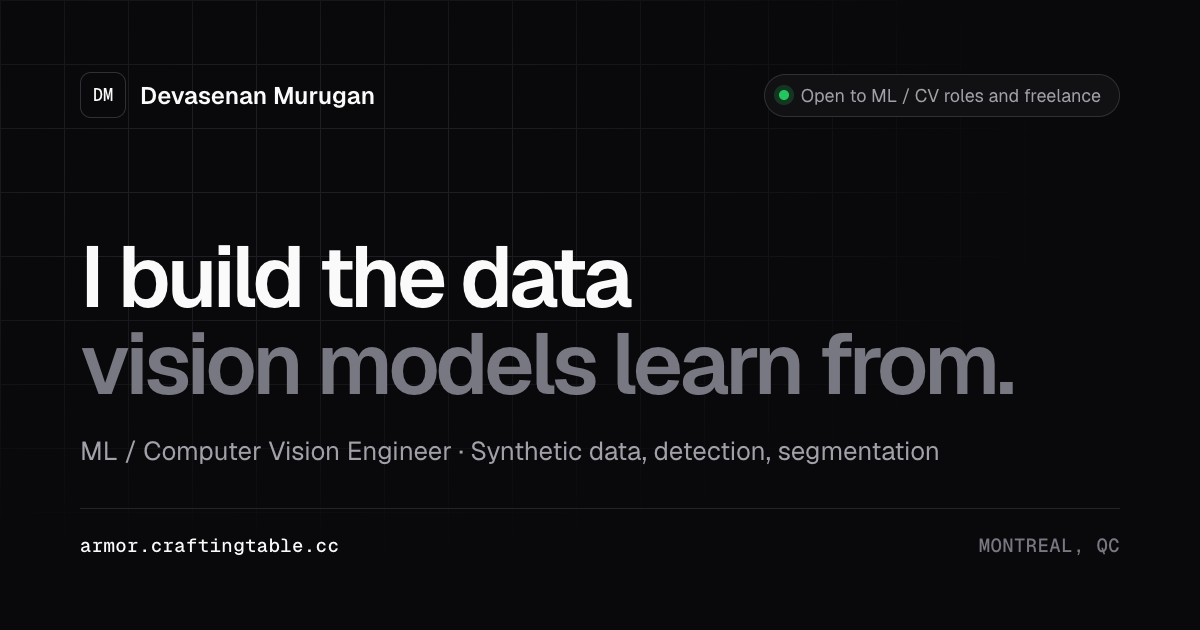
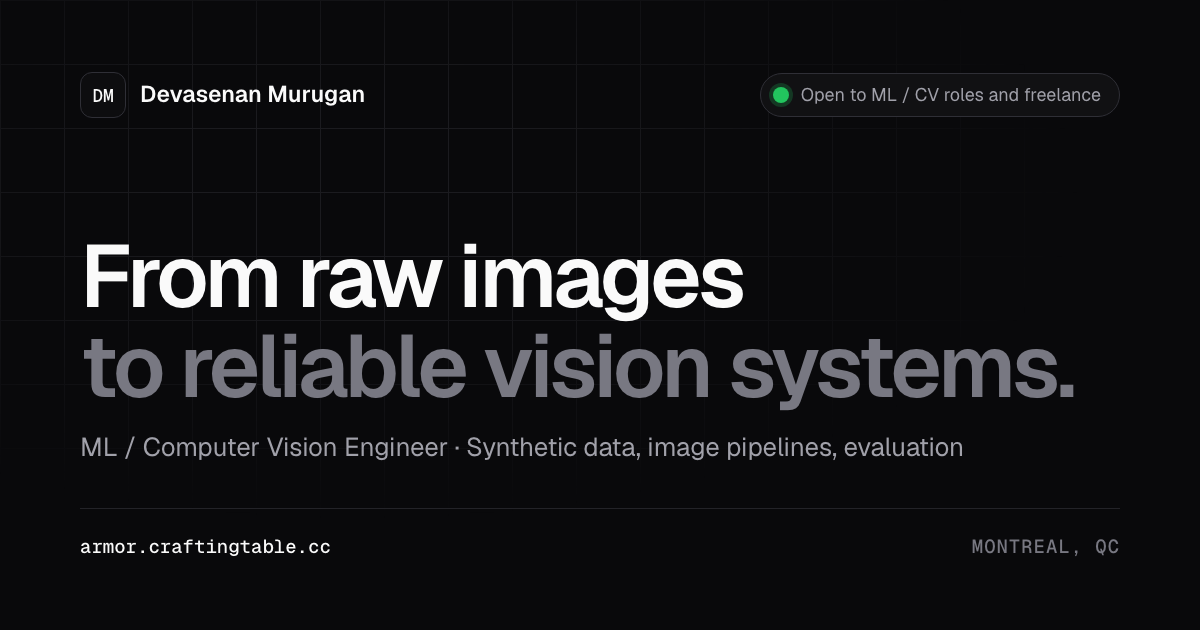
Reposition hero, correct title and attribution, add OG image generator
- Hero: "From raw images to reliable vision systems", with a scoped lede
- Use the official title "Data Engineer Intern" on both editions
- Word the FAR/FRR figures as a contribution to the overall pipeline
- Mark the Domain Gap Detector as in progress and split built vs planned
- Label AWS as coursework; align award and home-lab wording
- Update meta, Open Graph text and image alt text
- Regenerate the link-preview image and add tools/og to rebuild it

diff --git a/site/minecraft/index.html b/site/minecraft/index.html
@@ -4,17 +4,17 @@
 <meta charset="utf-8">
 <meta name="viewport" content="width=device-width,initial-scale=1">
 <title>Devasenan Murugan · ML / Computer Vision Engineer</title>
-<meta name="description" content="Devasenan Murugan, ML / Computer Vision engineer in Montreal. Synthetic data pipelines, detection and segmentation.">
+<meta name="description" content="Devasenan Murugan, ML / Computer Vision engineer in Montreal. Synthetic data, image pipelines and evaluation for vision models.">
 <link rel="canonical" href="https://armor.craftingtable.cc/minecraft/">
 <meta property="og:type" content="website">
 <meta property="og:site_name" content="Devasenan Murugan">
 <meta property="og:title" content="Devasenan Murugan · ML / Computer Vision Engineer">
-<meta property="og:description" content="Synthetic data pipelines, detection and segmentation, and measuring the gap between sim and real. Based in Montreal.">
+<meta property="og:description" content="Synthetic data, image pipelines, and measuring the gap between synthetic and real images. Based in Montreal.">
 <meta property="og:url" content="https://armor.craftingtable.cc/minecraft/">
 <meta property="og:image" content="https://armor.craftingtable.cc/assets/og.png">
 <meta property="og:image:width" content="1200">
 <meta property="og:image:height" content="630">
-<meta property="og:image:alt" content="Devasenan Murugan, ML / Computer Vision Engineer. I build the data vision models learn from.">
+<meta property="og:image:alt" content="Devasenan Murugan, ML / Computer Vision Engineer.">
 <meta name="twitter:card" content="summary_large_image">
 <link rel="preconnect" href="https://fonts.googleapis.com"><link rel="preconnect" href="https://fonts.gstatic.com" crossorigin>
 <link href="https://fonts.googleapis.com/css2?family=Noto+Sans:wght@400;500;600;700;800&family=Silkscreen&display=swap" rel="stylesheet">
@@ -341,7 +341,7 @@ footer .legal{color:#9a9a9a;font-size:12px;max-width:520px}
     <div>
       <div class="pill"><i></i>Open to ML / CV roles and freelance · Montreal</div>
       <h1>Devasenan Murugan<small>ML / Computer Vision Engineer</small></h1>
-      <p class="lede">I build synthetic data pipelines and vision models, and I measure the gap between sim and real. Master's in Applied CS at Concordia.</p>
+      <p class="lede">I build synthetic data and image pipelines for vision models, and I'm building a tool to measure the gap between synthetic and real images. Master of Applied Computer Science, Concordia (2026).</p>
       <div class="ctas">
         <a class="btn" href="#contact"><canvas data-item="gem:cyan" width="16" height="16"></canvas>Hire me</a>
         <a class="btn ghost" href="#projects">See projects</a>
@@ -373,12 +373,12 @@ footer .legal{color:#9a9a9a;font-size:12px;max-width:520px}
       <div class="craft">
         <div class="g3" data-grid="orb:orange|BlenderProc|Domain-randomized renders;gem:cyan|YOLOv8|Ultralytics detector;orb:orange|BlenderProc|;dust:aqua|FID / KID|No-training gap metric;gem:purple|DINOv2|Feature backbone;dust:aqua|FID / KID|;ingot:iron|YCB-V objects|Benchmark objects;dust:red|MMD / KS-test|Drift monitor;ingot:iron|YCB-V objects|"></div>
         <div class="arrow"></div>
-        <div class="out"><div class="slot" data-item="compass" data-tip="Domain Gap Detector|aqua|Measures the synthetic-to-real gap|before a full train/eval cycle"></div></div>
+        <div class="out"><div class="slot" data-item="compass" data-tip="Domain Gap Detector|aqua|Goal: measure the synthetic-to-real gap|before a full train/eval cycle (in progress)"></div></div>
       </div>
       <div>
-        <div class="meta">Aug 2026 – ongoing · personal project</div>
+        <div class="meta">Aug 2026 – ongoing · personal project · in progress</div>
         <h3>Synthetic-to-Real Domain Gap Detector</h3>
-        <p>Estimates how well synthetic training data will transfer to real-world detection before you commit to a full train/eval cycle. A config-driven render → train → eval pipeline over domain-randomized YCB-V variants, a no-training gap metric (FID/KID on DINOv2 features), and a drift monitor that flags shifts in incoming batches.</p>
+        <p>Goal: estimate how well synthetic training data will transfer to real-world detection before a full train/eval cycle. Built: a config-driven render → train → eval pipeline over domain-randomized YCB-V variants. In progress: a no-training gap metric (FID/KID on DINOv2 features) and a drift monitor for incoming batches. Results not yet published.</p>
         <div class="chips"><span>BlenderProc</span><span>YOLOv8</span><span>DINOv2</span><span>FID / KID</span><span>MMD / KS-test</span></div>
       </div>
     </article>
@@ -387,13 +387,13 @@ footer .legal{color:#9a9a9a;font-size:12px;max-width:520px}
       <div class="craft">
         <div class="g3" data-grid="orb:orange|Blender Python API|~100K rendered samples;orb:orange|Blender Python API|;orb:orange|Blender Python API|;paper|Occlusion compositing|Finger and object cutouts;gem:cyan|Card / text / photo detectors|In-house models;paper|OCR|;book:purple|Annotation QA|Guidelines, taxonomy, calibration;ingot:gold|Real re-captures|Vendors photographed printed cards;book:purple|Annotation QA|"></div>
         <div class="arrow"></div>
-        <div class="out"><div class="slot" data-item="gem:cyan" data-tip="ID-card quality-check data|aqua|Hyperverge|g:~50% FAR, ~12% FRR reduction"></div></div>
+        <div class="out"><div class="slot" data-item="gem:cyan" data-tip="ID-card quality-check data|aqua|Hyperverge|g:Contributed to ~50% FAR, ~12% FRR relative reductions"></div></div>
       </div>
       <div>
-        <div class="meta">Hyperverge · Data Engineer Intern (DL)</div>
+        <div class="meta">Hyperverge · Data Engineer Intern</div>
         <h3>ID-card quality-check data</h3>
         <p>~100K Blender-rendered samples covering blur, glare and partially visible cards, plus an occlusion pipeline for cases Blender couldn't simulate. Led annotation for the QC model and had vendors re-capture printed cards to close the gap.</p>
-        <div class="stat">~50% FAR · ~12% FRR relative reduction</div>
+        <div class="stat">Contributed to ~50% FAR · ~12% FRR relative reductions</div>
       </div>
     </article>
 
@@ -462,7 +462,7 @@ footer .legal{color:#9a9a9a;font-size:12px;max-width:520px}
     </div>
     <div class="why reveal">
       <p>I run my own home lab: Docker on Linux, Cloudflare tunnels, a local GPU for LLMs, and the services above, including the box that serves this page.</p>
-      <p>It's where I try things before they reach production: serving models, wiring agents to memory, and keeping it all up.</p>
+      <p>It's where I try things out: hosting a local LLM, wiring AI agents to memory, and keeping services running.</p>
       <a class="btn ghost" href="https://github.com/devasenan134">See it on GitHub</a>
     </div>
   </div>
@@ -571,7 +571,7 @@ document.querySelectorAll('div.slot[data-item],div.slot[data-block]').forEach(fi
 
 /* skills: creative tabs with real logos pixelated (Simple Icons, CC0) */
 const LOGO={Python:'python',PyTorch:'pytorch',OpenCV:'opencv',Docker:'docker',Linux:'linux','Git / GitHub':'git','Scikit-Learn':'scikitlearn',Pandas:'pandas',NumPy:'numpy','Blender Python API':'blender','C++':'cplusplus',Java:'openjdk',Bash:'gnubash','YOLO (Ultralytics)':'ultralytics','SAM':'meta','DINOv2':'meta'};
-const BADGE={SQL:'#4f8de8','Grounding DINO':'#b07ee8','OCR pipelines':'#cfcfcf',Segmentation:'#41d06b','Perspective transforms':'#3fb7c9','Photoshop scripting':'#31a8ff',Albumentations:'#f08a3a','Domain randomization':'#e5484d',Matplotlib:'#3b7bbf',Seaborn:'#4c72b0','Label Studio':'#f75a2b',Unsloth:'#41d06b',AWS:'#ff9900','Data-centric AI':'#ffd33d'};
+const BADGE={SQL:'#4f8de8','Grounding DINO':'#b07ee8','OCR pipelines':'#cfcfcf',Segmentation:'#41d06b','Perspective transforms':'#3fb7c9','Photoshop scripting':'#31a8ff',Albumentations:'#f08a3a','Domain randomization':'#e5484d',Matplotlib:'#3b7bbf',Seaborn:'#4c72b0','Label Studio':'#f75a2b',Unsloth:'#41d06b','AWS (coursework)':'#ff9900','Data-centric AI':'#ffd33d'};
 function logo(name){const c=C16(),x=c.getContext('2d');
   if(LOGO[name]){const im=new Image();im.onload=()=>{x.imageSmoothingEnabled=true;x.drawImage(im,1,1,14,14);
     try{const d=x.getImageData(0,0,16,16);for(let i=3;i<d.data.length;i+=4)d.data[i]=d.data[i]>90?255:0;x.putImageData(d,0,0)}catch(e){}};im.src='../assets/icons/'+LOGO[name]+'.svg'}
@@ -583,7 +583,7 @@ const CATS=[
  ['ML & data','potion:orange',['PyTorch','Scikit-Learn','Pandas','NumPy','Matplotlib','Seaborn','Data-centric AI']],
  ['Computer vision','gem:cyan',['OpenCV','YOLO (Ultralytics)','SAM','Grounding DINO','DINOv2','OCR pipelines','Segmentation','Perspective transforms']],
  ['Synthetic data','orb:orange',['Blender Python API','Photoshop scripting','Albumentations','Domain randomization']],
- ['Tools','pick',['Git / GitHub','Docker','Linux','Label Studio','Unsloth','AWS']],
+ ['Tools','pick',['Git / GitHub','Docker','Linux','Label Studio','Unsloth','AWS (coursework)']],
 ];
 const ctabs=document.getElementById('ctabs'),ctiles=document.getElementById('ctiles');
 const ALL=['All','compass',CATS.flatMap(c=>c[2].map(n=>[n,c[0]]))];
@@ -600,14 +600,14 @@ showCat(0);
 /* advancements */
 const ADV=[
  {id:'kct',x:40,y:180,type:'task',item:'book:blue',t:'Getting an Education',cap:'KCT, Coimbatore',sub:'2020 – 2024',d:'B.E. Computer Science, 9.2/10'},
- {id:'best',x:210,y:50,type:'challenge',item:'gem:cyan',t:'Best Outgoing Student',cap:'Best Outgoing Student',sub:'department award',d:'Top of the department, 2020 – 2024'},
+ {id:'best',x:210,y:50,type:'challenge',item:'gem:cyan',t:'Best Outgoing Student',cap:'Best Outgoing Student',sub:'department award',d:'Best Outgoing Student of the Department, 2020 – 2024'},
  {id:'merit',x:210,y:310,type:'goal',item:'ingot:gold',t:'Merit Scholarship',cap:'Merit Scholarship',sub:'2021 – 2023',d:'Mahatma Gandhi Merit Scholarship, two years'},
  {id:'deft',x:380,y:180,type:'task',item:'orb:green',t:'Team Lead',cap:'Deft & Tact',sub:'Apr – Oct 2023',d:'Project trainee. Led a team of 3 on room re-tiling'},
- {id:'hv',x:550,y:180,type:'task',item:'orb:orange',t:'Into the Pipeline',cap:'Hyperverge',sub:'2024',d:'DL intern. Synthetic data for ID-card QC and tamper detection'},
- {id:'far',x:470,y:40,type:'challenge',item:'gem:cyan',t:'Diamonds!',cap:'~50% FAR cut',sub:'ID-card QC',d:'~50% FAR, ~12% FRR relative reduction'},
+ {id:'hv',x:550,y:180,type:'task',item:'orb:orange',t:'Into the Pipeline',cap:'Hyperverge',sub:'2024',d:'Data Engineer Intern. Synthetic data for ID-card QC and tamper detection'},
+ {id:'far',x:470,y:40,type:'challenge',item:'gem:cyan',t:'Diamonds!',cap:'FAR / FRR down',sub:'contributed · ID-card QC',d:'Contributed to ~50% FAR, ~12% FRR relative reductions'},
  {id:'k300',x:630,y:320,type:'goal',item:'gem:green',t:'Stack of Data',cap:'300K samples',sub:'tamper dataset',d:'5 classes with pixel-level masks'},
- {id:'conc',x:720,y:180,type:'task',item:'book:purple',t:'Leveling Up',cap:'Concordia, Montreal',sub:'2025 – 2026',d:'Master of Applied CS, 3.7/4.3'},
- {id:'dgd',x:900,y:320,type:'goal',item:'compass',t:'Mind the Gap',cap:'Domain Gap Detector',sub:'ongoing',d:'Measuring the synthetic-to-real gap'},
+ {id:'conc',x:720,y:180,type:'task',item:'book:purple',t:'Leveling Up',cap:'Concordia, Montreal',sub:'2025 – 2026',d:'Master of Applied CS, 3.7/4.3 · completed 2026'},
+ {id:'dgd',x:900,y:320,type:'goal',item:'compass',t:'Mind the Gap',cap:'Domain Gap Detector',sub:'ongoing',d:'Building a way to measure the synthetic-to-real gap (in progress)'},
  {id:'next',x:900,y:50,type:'lock',item:'potion:green',t:'???',cap:'Next: your team?',sub:'2026 →',d:'ML / CV roles in Canada, plus freelance'},
 ];
 const LINKS=[['kct','best'],['kct','merit'],['kct','deft'],['deft','hv'],['hv','far'],['hv','k300'],['hv','conc'],['conc','dgd'],['conc','next']];

diff --git a/site/index.html b/site/index.html
@@ -4,17 +4,17 @@
 <meta charset="utf-8">
 <meta name="viewport" content="width=device-width,initial-scale=1">
 <title>Devasenan Murugan · ML / Computer Vision Engineer</title>
-<meta name="description" content="Devasenan Murugan, ML / Computer Vision engineer in Montreal. Synthetic data pipelines, detection and segmentation.">
+<meta name="description" content="Devasenan Murugan, ML / Computer Vision engineer in Montreal. Synthetic data, image pipelines and evaluation for vision models.">
 <link rel="canonical" href="https://armor.craftingtable.cc/">
 <meta property="og:type" content="website">
 <meta property="og:site_name" content="Devasenan Murugan">
 <meta property="og:title" content="Devasenan Murugan · ML / Computer Vision Engineer">
-<meta property="og:description" content="Synthetic data pipelines, detection and segmentation, and measuring the gap between sim and real. Based in Montreal.">
+<meta property="og:description" content="Synthetic data, image pipelines, and measuring the gap between synthetic and real images. Based in Montreal.">
 <meta property="og:url" content="https://armor.craftingtable.cc/">
 <meta property="og:image" content="https://armor.craftingtable.cc/assets/og.png">
 <meta property="og:image:width" content="1200">
 <meta property="og:image:height" content="630">
-<meta property="og:image:alt" content="Devasenan Murugan, ML / Computer Vision Engineer. I build the data vision models learn from.">
+<meta property="og:image:alt" content="Devasenan Murugan, ML / Computer Vision Engineer.">
 <meta name="twitter:card" content="summary_large_image">
 <link rel="preconnect" href="https://fonts.googleapis.com"><link rel="preconnect" href="https://fonts.gstatic.com" crossorigin>
 <link href="https://fonts.googleapis.com/css2?family=Geist:wght@400;500;600;700&family=Geist+Mono:wght@400;500&display=swap" rel="stylesheet">
@@ -213,8 +213,8 @@ footer a{color:var(--muted);text-decoration:none}
   <div class="grid-bg"></div>
   <div class="wrap" style="position:relative">
     <span class="chip"><i></i>Open to ML / CV roles and freelance · Montreal, QC</span>
-    <h1>I build the data<br><span>vision models learn from.</span></h1>
-    <p class="lede">ML / Computer Vision engineer. Synthetic data pipelines, detection and segmentation, and measuring the gap between sim and real. Master's in Applied CS at Concordia.</p>
+    <h1>From raw images<br><span>to reliable vision systems.</span></h1>
+    <p class="lede">ML / Computer Vision engineer. I build synthetic data and image pipelines for vision models and measure whether they hold up on real images. At Hyperverge I built the data and annotation workflows behind ID-card quality checks and tamper detection; I'm now building a tool to estimate synthetic-to-real transfer. Master of Applied Computer Science, Concordia (2026).</p>
     <div class="row">
       <a class="btn solid" href="#contact">Get in touch
         <svg viewBox="0 0 24 24" fill="none" stroke="currentColor" stroke-width="2"><path d="M5 12h14M13 6l6 6-6 6"/></svg></a>
@@ -236,13 +236,13 @@ footer a{color:var(--muted);text-decoration:none}
 <!-- HOW I WORK -->
 <section id="how"><div class="wrap">
   <div class="label">How I work</div>
-  <h2 class="reveal">One loop, <span>end to end.</span></h2>
-  <p class="intro reveal">Most of my work lives in one cycle: make the data, train on it, check it holds up on real images, and run it somewhere.</p>
+  <h2 class="reveal">From raw data to <span>a model you can trust.</span></h2>
+  <p class="intro reveal">My work sits between raw images and a trustworthy model: building the data, checking whether it holds up on real images, and finding what's missing. The data and error-analysis work is from Hyperverge; the training and gap-measurement work is in my own projects.</p>
   <div class="pipe reveal">
     <div class="track"></div><div class="dot"></div>
     <div class="stage"><div class="node"></div><div class="n">01 / render</div><h3>Synthetic data</h3><p>Rendered and composited datasets when real data is scarce, costly or private.</p><div class="tools">Blender Python API<br>BlenderProc · Photoshop API<br>Albumentations · Augraphy</div></div>
-    <div class="stage"><div class="node"></div><div class="n">02 / train</div><h3>Vision models</h3><p>Detection, segmentation and OCR, from pretrained foundations to fine-tuned models.</p><div class="tools">PyTorch · YOLOv8<br>Grounding DINO · SAM<br>OpenCV · Scikit-Learn</div></div>
-    <div class="stage"><div class="node"></div><div class="n">03 / eval</div><h3>Mind the gap</h3><p>Measure how synthetic data transfers to the real world, and catch drift before it costs a training run.</p><div class="tools">FID / KID · DINOv2<br>MMD / KS-test<br>Error analysis</div></div>
+    <div class="stage"><div class="node"></div><div class="n">02 / train</div><h3>Detection &amp; segmentation</h3><p>Pretrained detectors, segmentation and OCR wired into pipelines (Grounding DINO + SAM, in-house detectors at Hyperverge), and YOLOv8 training in my own projects.</p><div class="tools">PyTorch · YOLOv8<br>Grounding DINO · SAM<br>OpenCV · Scikit-Learn</div></div>
+    <div class="stage"><div class="node"></div><div class="n">03 / eval</div><h3>Mind the gap</h3><p>Production error analysis at Hyperverge, plus a gap metric and drift monitor I'm building (in progress).</p><div class="tools">FID / KID · DINOv2<br>MMD / KS-test<br>Error analysis</div></div>
     <div class="stage live"><div class="node"></div><div class="n">04 / serve</div><h3>Run it myself</h3><p>A home lab on Docker and Linux, with a local GPU for LLMs. It also serves this page.</p><div class="tools">Docker · Linux<br>Ollama · Cloudflare tunnels<br>Git</div></div>
   </div>
 </div></section>
@@ -250,13 +250,13 @@ footer a{color:var(--muted);text-decoration:none}
 <!-- WORK -->
 <section id="work"><div class="wrap">
   <div class="label">Selected work</div>
-  <h2 class="reveal">Results first.</h2>
-  <p class="intro reveal">Four projects, each led by what it changed.</p>
+  <h2 class="reveal">Selected work.</h2>
+  <p class="intro reveal">Four projects: what I built, and what it changed.</p>
   <div class="ledger">
     <article class="entry reveal">
-      <div class="res">~50%<small>FAR reduction</small></div>
-      <div><div class="meta">Hyperverge · Data Engineer Intern (DL) · 2024</div><h3>ID-card quality-check data</h3>
-        <p>~100K Blender-rendered samples covering blur, glare and partially visible cards, plus an occlusion pipeline for cases Blender couldn't simulate. Led annotation for the QC model and had vendors re-capture printed cards to close the synthetic-to-real gap. FRR also dropped ~12% (relative).</p></div>
+      <div class="res">~100K<small>synthetic samples</small></div>
+      <div><div class="meta">Hyperverge · Data Engineer Intern · 2024</div><h3>ID-card quality-check data</h3>
+        <p>Built a Blender-based pipeline generating ~100K samples of blur, glare and partially visible cards, plus an occlusion pipeline for cases Blender couldn't simulate. Led annotation for the ID-card QC model and had vendors re-capture printed cards to close the synthetic-to-real gap. Contributed to relative reductions of ~50% FAR and ~12% FRR in the overall quality-check pipeline.</p></div>
       <div class="tags"><span>Blender API</span><span>Compositing</span><span>OCR</span><span>Annotation QA</span></div>
     </article>
     <article class="entry reveal">
@@ -266,9 +266,9 @@ footer a{color:var(--muted);text-decoration:none}
       <div class="tags"><span>Photoshop API</span><span>Splicing</span><span>Pixel masks</span></div>
     </article>
     <article class="entry reveal">
-      <div class="res ongoing">Live<small>Aug 2026 – ongoing</small></div>
+      <div class="res ongoing">In progress<small>Aug 2026 – ongoing</small></div>
       <div><div class="meta">Personal project</div><h3>Synthetic-to-Real Domain Gap Detector</h3>
-        <p>Estimates how well synthetic training data will transfer before a full train/eval cycle. A config-driven render → train → eval pipeline over domain-randomized YCB-V variants, a no-training gap metric on DINOv2 features, and a drift monitor for incoming batches.</p></div>
+        <p>Goal: estimate how well synthetic training data will transfer to real detection before a full train/eval cycle. Built: a config-driven render → train → eval pipeline (BlenderProc, YOLOv8) over domain-randomized YCB-V variants. In progress: a no-training gap metric (FID / KID on DINOv2 features) and a drift monitor (MMD / KS-test). Results not yet published.</p></div>
       <div class="tags"><span>BlenderProc</span><span>YOLOv8</span><span>DINOv2</span><span>FID / KID</span></div>
     </article>
     <article class="entry reveal">
@@ -287,7 +287,7 @@ footer a{color:var(--muted);text-decoration:none}
   <div class="two" style="margin-top:48px">
     <div class="xp reveal">
       <div><span class="when">2025 – 2026</span><span><b>Concordia University, Montreal</b>Master of Applied Computer Science · 3.7/4.3</span></div>
-      <div><span class="when">2024</span><span><b>Hyperverge, Bangalore</b>Data Engineer Intern (DL) · Jan–Jun, Sep–Dec</span></div>
+      <div><span class="when">2024</span><span><b>Hyperverge, Bangalore</b>Data Engineer Intern · Jan–Jun, Sep–Dec</span></div>
       <div><span class="when">2023</span><span><b>Deft &amp; Tact Solutions, Hyderabad</b>Project Trainee (Development) · Apr–Oct</span></div>
       <div><span class="when">2020 – 2024</span><span><b>Kumaraguru College of Technology</b>B.E. Computer Science · 9.2/10 · Best Outgoing Student · Merit scholarship 2021–23</span></div>
     </div>
@@ -296,7 +296,7 @@ footer a{color:var(--muted);text-decoration:none}
       <div><span class="k">ML &amp; data</span><span class="v">PyTorch, Scikit-Learn, Pandas, NumPy, Matplotlib, Seaborn, data-centric AI</span></div>
       <div><span class="k">Vision</span><span class="v">OpenCV, YOLO, Grounding DINO, SAM, OCR pipelines, segmentation, perspective transforms</span></div>
       <div><span class="k">Synthetic data</span><span class="v">Blender Python API, Photoshop scripting, domain randomization, Albumentations</span></div>
-      <div><span class="k">Tools</span><span class="v">Git, Docker, Linux, Label Studio, Unsloth, AWS</span></div>
+      <div><span class="k">Tools</span><span class="v">Git, Docker, Linux, Label Studio, Unsloth, AWS (coursework)</span></div>
     </div>
   </div>
 </div></section>
@@ -306,7 +306,7 @@ footer a{color:var(--muted);text-decoration:none}
   <div>
     <div class="label">Home lab</div>
     <h2 class="reveal">I run <span>my own servers.</span></h2>
-    <p class="intro reveal" style="margin-bottom:0">Docker on Linux, Cloudflare tunnels and a local GPU. It's where I try things before they reach production: serving models, wiring agents to memory, and keeping it all up.</p>
+    <p class="intro reveal" style="margin-bottom:0">Docker on Linux, Cloudflare tunnels and a local GPU. It's where I try things out: hosting a local LLM, wiring AI agents to memory, and keeping services running.</p>
   </div>
   <div class="term reveal">
     <div class="bar"><i></i><i></i><i></i><span>deva@craftingtable</span></div>

diff --git a/tools/og/og.template.html b/tools/og/og.template.html
@@ -1,0 +1,36 @@
+<!doctype html>
+<html lang="en">
+<head>
+<meta charset="utf-8">
+<link rel="preconnect" href="https://fonts.googleapis.com"><link rel="preconnect" href="https://fonts.gstatic.com" crossorigin>
+<link href="https://fonts.googleapis.com/css2?family=Geist:wght@400;500;600;700&family=Geist+Mono:wght@400;500&display=swap" rel="stylesheet">
+<style>
+*{box-sizing:border-box;margin:0;padding:0}
+html,body{width:1200px;height:630px;overflow:hidden}
+body{background:#09090b;color:#fafafa;font:400 16px/1.2 "Geist",system-ui,sans-serif;-webkit-font-smoothing:antialiased;position:relative}
+.grid{position:absolute;inset:0;opacity:.7;
+  background-image:linear-gradient(#232328 1px,transparent 1px),linear-gradient(90deg,#232328 1px,transparent 1px);background-size:64px 64px;
+  -webkit-mask:radial-gradient(ellipse 80% 70% at 30% 30%,#000 20%,transparent 75%);mask:radial-gradient(ellipse 80% 70% at 30% 30%,#000 20%,transparent 75%)}
+.top{position:absolute;left:80px;right:80px;top:72px;display:flex;align-items:center;justify-content:space-between}
+.brand{display:flex;align-items:center;gap:14px;font-weight:600;font-size:23px}
+.brand b{display:grid;place-items:center;width:46px;height:46px;border:1px solid #2f2f36;border-radius:12px;background:#0d0d0f;font:500 18px "Geist Mono",monospace}
+.chip{display:inline-flex;align-items:center;gap:12px;padding:10px 18px 10px 12px;border:1px solid #2f2f36;border-radius:999px;font-size:18px;color:#a1a1aa;background:#111113}
+.chip i{width:16px;height:16px;border-radius:50%;background:#22c55e;box-shadow:0 0 0 4px rgba(34,197,94,.22)}
+h1{position:absolute;left:80px;right:80px;top:232px;font-weight:600;letter-spacing:-.04em;line-height:1.02;font-size:__H1_SIZE__px}
+h1 span{display:block;color:#787882}
+.tag{position:absolute;left:80px;right:80px;top:432px;font-size:26px;color:#a1a1aa;letter-spacing:-.005em}
+.rule{position:absolute;left:80px;right:80px;top:508px;height:1px;background:#232328}
+.foot{position:absolute;left:80px;right:80px;top:534px;display:flex;justify-content:space-between;font:500 19px "Geist Mono",monospace}
+.foot .l{color:#fafafa}
+.foot .r{color:#787882;text-transform:uppercase;letter-spacing:.05em}
+</style>
+</head>
+<body>
+<div class="grid"></div>
+<div class="top"><div class="brand"><b>__INITIALS__</b>__NAME__</div><div class="chip"><i></i>__CHIP__</div></div>
+<h1>__H1_LINE1__<span>__H1_LINE2__</span></h1>
+<div class="tag">__TAGLINE__</div>
+<div class="rule"></div>
+<div class="foot"><span class="l">__DOMAIN__</span><span class="r">__LOCATION__</span></div>
+</body>
+</html>

diff --git a/tools/og/build.py b/tools/og/build.py
@@ -1,0 +1,112 @@
+#!/usr/bin/env python3
+"""Regenerate site/assets/og.png from the live copy in site/index.html.
+
+The headline and availability chip are read from the main page, so the
+link-preview image follows the page instead of drifting from it.
+Only the tagline and domain live in tools/og/og.json.
+
+    python3 tools/og/build.py           # render if inputs changed
+    python3 tools/og/build.py --force   # render regardless
+    python3 tools/og/build.py --check   # exit 1 if og.png is stale (no render)
+
+Needs python3 (standard library only) and one Chromium-based browser
+(Playwright's Chromium, Chrome, Chromium or Brave). Fonts load from
+Google Fonts, same as the site, so the first render needs a network.
+"""
+import hashlib, html, json, pathlib, re, subprocess, sys, tempfile
+
+ROOT = pathlib.Path(__file__).resolve().parents[2]
+HERE = pathlib.Path(__file__).resolve().parent
+PAGE = ROOT / "site" / "index.html"
+OUT = ROOT / "site" / "assets" / "og.png"
+STAMP = HERE / ".last-build"
+
+
+def clean(s):
+    s = re.sub(r"<[^>]+>", "", s)
+    return re.sub(r"\s+", " ", html.unescape(s)).strip()
+
+
+def read_inputs():
+    src = PAGE.read_text(encoding="utf-8")
+    m = re.search(r"<h1>(.*?)</h1>", src, re.S)
+    if not m:
+        sys.exit("Could not find the <h1> in site/index.html")
+    h1 = m.group(1)
+    line1, rest = re.split(r"<br\s*/?>", h1, maxsplit=1)
+    m = re.search(r'<span class="chip"><i></i>(.*?)</span>', src, re.S)
+    if not m:
+        sys.exit("Could not find the availability chip in site/index.html")
+    chip = m.group(1)
+    chip = clean(chip).split(" · ")[0]  # drop the city, it is shown bottom right
+    cfg = json.loads((HERE / "og.json").read_text(encoding="utf-8"))
+    return {
+        "line1": clean(line1), "line2": clean(rest), "chip": chip,
+        "name": cfg["name"], "initials": cfg["initials"], "tagline": cfg["tagline"],
+        "domain": cfg["domain"], "location": cfg["location"],
+    }
+
+
+def digest(inp):
+    blob = json.dumps(inp, sort_keys=True) + (HERE / "og.template.html").read_text(encoding="utf-8")
+    return hashlib.sha256(blob.encode()).hexdigest()
+
+
+def find_browser():
+    home = pathlib.Path.home()
+    cands = sorted(home.glob("Library/Caches/ms-playwright/chromium-*/chrome-mac*/Chromium.app/Contents/MacOS/Chromium"))
+    cands += sorted(home.glob(".cache/ms-playwright/chromium-*/chrome-linux/chrome"))
+    cands += [pathlib.Path(p) for p in (
+        "/Applications/Google Chrome.app/Contents/MacOS/Google Chrome",
+        "/Applications/Chromium.app/Contents/MacOS/Chromium",
+        "/Applications/Brave Browser.app/Contents/MacOS/Brave Browser",
+        "/usr/bin/chromium", "/usr/bin/google-chrome")]
+    for c in cands:
+        if c.exists():
+            return str(c)
+    sys.exit("No Chromium-based browser found.")
+
+
+def render(inp):
+    longest = max(len(inp["line1"]), len(inp["line2"]))
+    size = int(min(88, 1040 / (longest * 0.43)))
+    tpl = (HERE / "og.template.html").read_text(encoding="utf-8")
+    rep = {"__H1_SIZE__": str(size), "__INITIALS__": inp["initials"], "__NAME__": inp["name"],
+           "__CHIP__": inp["chip"], "__H1_LINE1__": inp["line1"], "__H1_LINE2__": inp["line2"],
+           "__TAGLINE__": inp["tagline"], "__DOMAIN__": inp["domain"], "__LOCATION__": inp["location"]}
+    for k, v in rep.items():
+        tpl = tpl.replace(k, v if k == "__H1_SIZE__" else html.escape(v, quote=False))
+    with tempfile.TemporaryDirectory() as td:
+        page = pathlib.Path(td) / "og.html"
+        page.write_text(tpl, encoding="utf-8")
+        shot = pathlib.Path(td) / "og.png"
+        cmd = [find_browser(), "--headless=new", "--disable-gpu", "--hide-scrollbars",
+               "--force-device-scale-factor=1", "--window-size=1200,630",
+               "--virtual-time-budget=8000", f"--screenshot={shot}", page.as_uri()]
+        try:
+            subprocess.run(cmd, check=True, timeout=60, capture_output=True)
+        except subprocess.TimeoutExpired:
+            if not shot.exists():
+                sys.exit("Browser timed out before writing a screenshot.")
+        if not shot.exists():
+            sys.exit("Browser did not produce a screenshot.")
+        OUT.write_bytes(shot.read_bytes())
+
+
+def main():
+    inp = read_inputs()
+    d = digest(inp)
+    fresh = STAMP.exists() and STAMP.read_text().strip() == d and OUT.exists()
+    if "--check" in sys.argv:
+        print("og.png is up to date" if fresh else "og.png is STALE: run tools/og/build.py")
+        sys.exit(0 if fresh else 1)
+    if fresh and "--force" not in sys.argv:
+        print("og.png already matches the page; nothing to do")
+        return
+    render(inp)
+    STAMP.write_text(d + "\n")
+    print(f"rendered {OUT.relative_to(ROOT)}: {inp['line1']} / {inp['line2']}")
+
+
+if __name__ == "__main__":
+    main()
